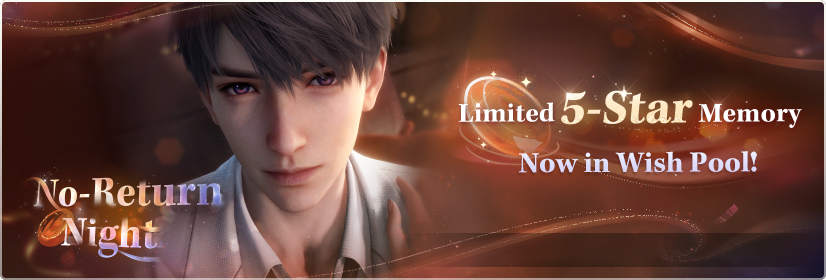
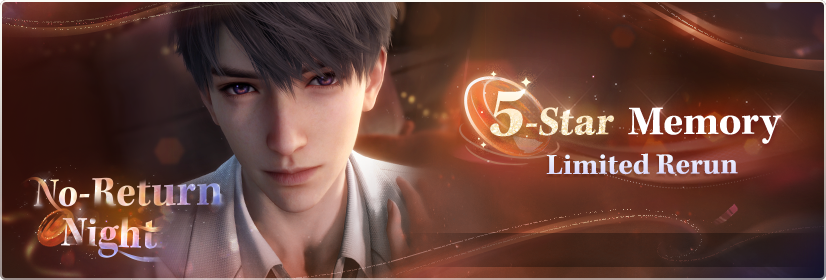
feat: change contant for home page

Changed region(s): [[0.5448, 0.2857, 0.9685, 0.5143], [0.6053, 0.5429, 0.9383, 0.6286]]

diff --git a/src/components/ProtocoreCalculator.jsx b/src/components/ProtocoreCalculator.jsx
@@ -12,6 +12,7 @@ import {
     dungeonData,
     SUBSTAT_LEVELS
 } from '../data/protocore-data';
+import {Collapse} from "antd";
 
 // Функция для получения первого доступного мейн стата
 const getFirstMainStat = (type) => {
@@ -100,7 +101,7 @@ function ProtocoreCalculator() {
             <h1 className={styles.title}>Protocore Calculator</h1>
 
             <div className={styles.formGroup}>
-                <label>Protocore Type</label>
+                <div>Protocore Type</div>
                 <div className={styles.buttonGroup}>
                     {Object.entries(protocoreTypes).map(([key, value]) => (
                         <button
@@ -115,8 +116,10 @@ function ProtocoreCalculator() {
             </div>
 
             <div className={styles.formGroup}>
-                <label>Main Stat</label>
+                <label htmlFor="main-stat-select">Main Stat</label>
                 <select
+                    id="main-stat-select"
+                    name="main-stat"
                     value={mainStat}
                     onChange={(e) => handleMainStatChange(e.target.value)}
                     className={styles.select}
@@ -131,8 +134,10 @@ function ProtocoreCalculator() {
 
             <div className={styles.row}>
                 <div className={styles.formGroup}>
-                    <label>Current Level</label>
+                    <label htmlFor="current-lvl-select">Current Level</label>
                     <select
+                        id="current-lvl-select"
+                        name="current-lvl"
                         value={currentLevel}
                         onChange={(e) => handleCurrentLevelChange(e.target.value)}
                         className={styles.select}
@@ -144,8 +149,10 @@ function ProtocoreCalculator() {
                 </div>
 
                 <div className={styles.formGroup}>
-                    <label>Target Level</label>
+                    <label htmlFor="target-lvl-select">Target Level</label>
                     <select
+                        id="target-lvl-select"
+                        name="target-lvl"
                         value={targetLevel}
                         onChange={(e) => handleTargetLevelChange(e.target.value)}
                         className={styles.select}
@@ -158,8 +165,10 @@ function ProtocoreCalculator() {
             </div>
 
             <div className={styles.formGroup}>
-                <label>Core Hunt Level</label>
+                <label htmlFor="core-hunt-lvl-select">Core Hunt Level</label>
                 <select
+                    id="core-hunt-lvl-select"
+                    name="core-hunt-lvl"
                     value={dungeonLevel}
                     onChange={(e) => handleDungeonLevelChange(e.target.value)}
                     className={styles.select}

diff --git a/src/components/ProtocoreCalculator.module.css b/src/components/ProtocoreCalculator.module.css
@@ -1,65 +1,74 @@
 .container {
     max-width: 600px;
-    margin: 0 auto;
-    padding: 24px;
-    background: #fff;
-    border-radius: 16px;
-    box-shadow: 0 4px 12px rgba(0, 0, 0, 0.1);
+    margin-top: 20px;
+    padding: 20px;
+    background: var(--bg-glass);
+    box-shadow: var(--box-shadow);
+    font-size: 16px;
 }
 
 .title {
     font-size: 28px;
     font-weight: 600;
     text-align: center;
-    margin-bottom: 24px;
-    color: #1a1a1a;
+    margin-bottom: 20px;
+    color: var(--colorTextDark);
 }
 
 .formGroup {
-    margin-bottom: 20px;
+    margin-bottom: 10px;
 }
 
 .formGroup label {
     display: block;
     font-weight: 500;
-    margin-bottom: 8px;
-    color: #333;
+    margin-bottom: 10px;
+    color: var(--colorTextDark);
 }
 
 .buttonGroup {
     display: flex;
-    gap: 8px;
-    flex-wrap: wrap;
+    gap: 5px;
 }
 
 .typeButton {
     padding: 8px 16px;
-    border: 1px solid #d9d9d9;
-    background: #fff;
-    border-radius: 8px;
+    background: none;
+    border: none;
+    color: var(--colorTextDark);
+    font-family: inherit;
+    font-size: 14px;
     cursor: pointer;
     transition: all 0.2s;
 }
 
 .typeButton:hover {
-    border-color: #1677ff;
-    color: #1677ff;
+    color: var(--a);
 }
 
 .typeButton.active {
-    background: #1677ff;
-    color: #fff;
-    border-color: #1677ff;
+    background: var(--forSelect);
+    color: var(--colorText);
+    box-shadow: var(--box-shadow);
 }
 
 .select {
     width: 100%;
     padding: 8px 12px;
-    border: 1px solid #d9d9d9;
-    border-radius: 8px;
+    border: 1px solid var(--colorText);
     font-size: 14px;
     cursor: pointer;
 }
+
+.select,
+.select:hover,
+.select:focus,
+.select:active,
+.select:visited {
+    border: none;
+    outline: none;
+}
+
 
 .row {
     display: flex;

diff --git a/src/components/EventsBlock.jsx b/src/components/EventsBlock.jsx
@@ -23,15 +23,13 @@ function EventsBlock() {
                 <img className={styles.imgBanner} src={getImageUrl("../assets/main-page/event-2.png")}alt="event"/>
             </div>
 
-            {/*
             <div className={styles.containerTitleTimer}>
                 <FlexibleTimer
-                    startDateTime="2026-05-25T05:00:00+02:00"
-                    endDateTime="2026-06-01T04:59:00+02:00"
+                    startDateTime="2026-06-08T05:00:00+02:00"
+                    endDateTime="2026-06-21T04:59:00+02:00"
                 />
-                <img className={styles.imgBanner} src={getImageUrl("src/assets/main-page/event-3.png")} alt="event"/>
+                <img className={styles.imgBanner} src={getImageUrl("../assets/main-page/event-3.png")} alt="event"/>
             </div>
-            */}
 
             <h2 className={styles.h2}>Battle Pass</h2>
 

diff --git a/src/pages/Calculator.jsx b/src/pages/Calculator.jsx
@@ -6,7 +6,7 @@ function Calculator() {
 return (
 
     <>
-        <section className={styles.container}>
+        <section className={styles.containerCalculator}>
             <ProtocoreCalculator />
         </section>
     </>

diff --git a/src/pages/Calculator.module.css b/src/pages/Calculator.module.css
@@ -1,0 +1,4 @@
+.containerCalculator {
+    display: flex;
+    justify-content: center;
+}
